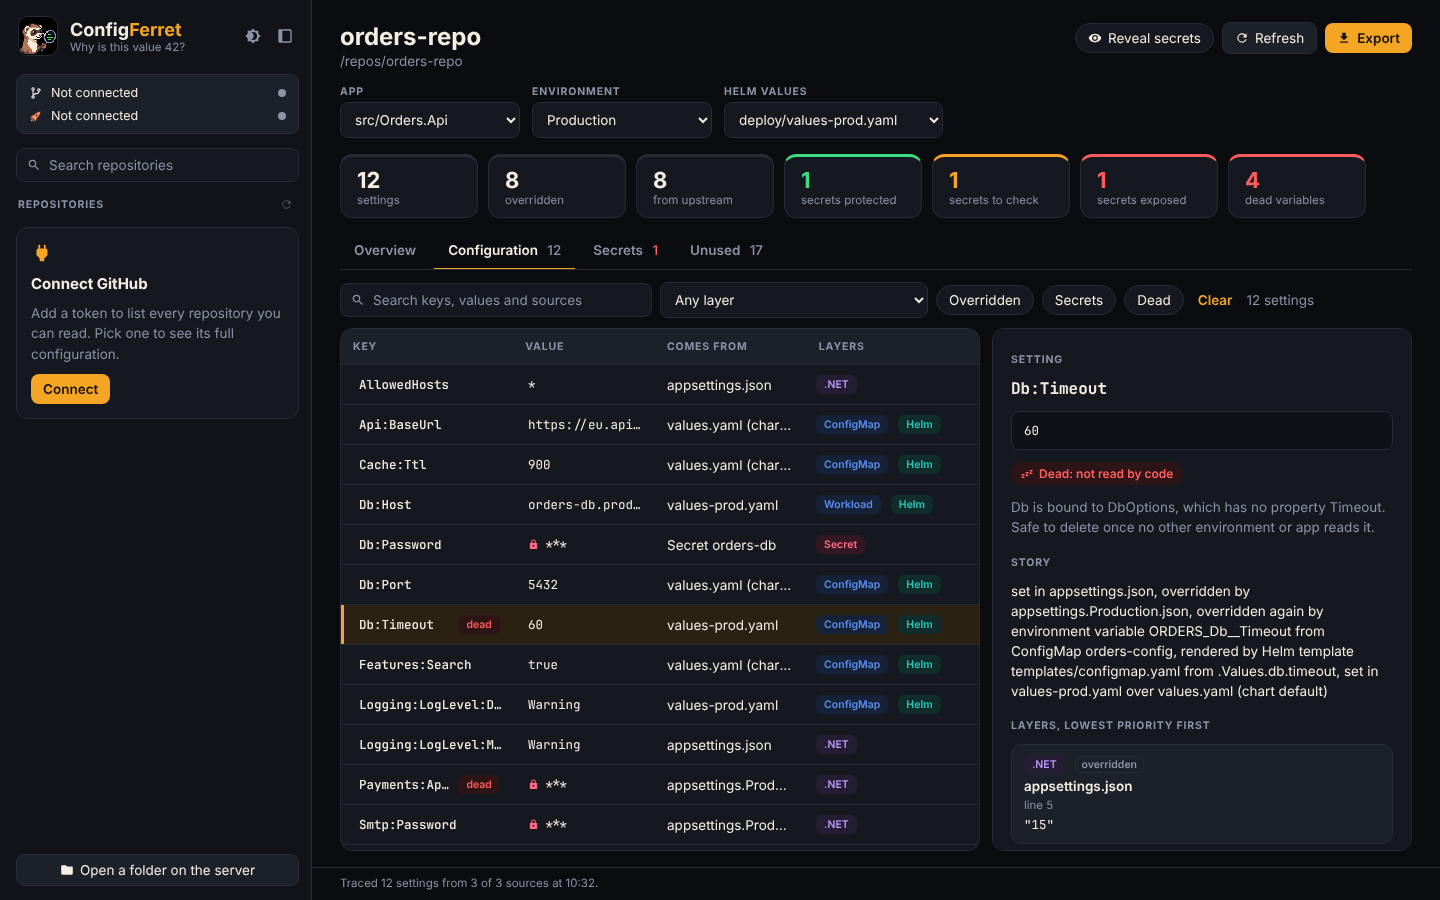
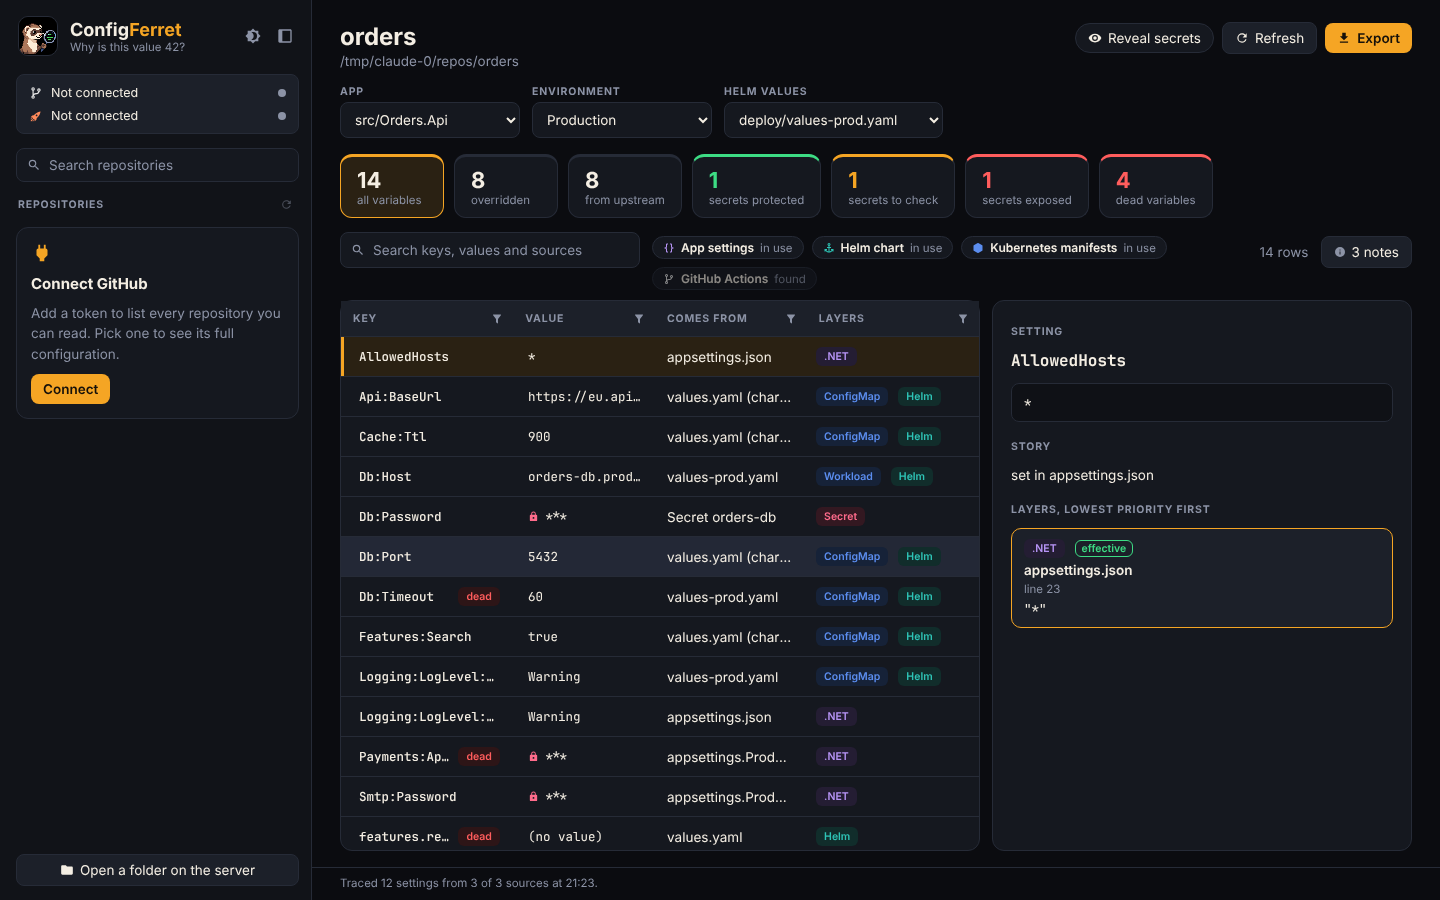
Show everything on one page with filters in the web app
The web app follows the desktop app: the tabs are gone, the stat tiles
filter the one table, each column header has a sort, search and
tick-list filter, and GitHub, Octopus and Helm rows sit in the table.

Claude-Session: https://claude.ai/code/session_013ADYoCp3cBN2uPLo4pv2va

diff --git a/src/ConfigFerret.Web/wwwroot/app.css b/src/ConfigFerret.Web/wwwroot/app.css
@@ -171,48 +171,57 @@ input::placeholder { color: var(--muted); }
 .tile.good { border-top-color: var(--good); } .tile.good .number { color: var(--good); }
 .tile.check { border-top-color: var(--accent); } .tile.check .number { color: var(--accent); }
 .tile.bad { border-top-color: var(--bad); } .tile.bad .number { color: var(--bad); }
-.tabs { display: flex; gap: 4px; border-bottom: 1px solid var(--border); overflow-x: auto; }
-.tab { padding: 10px 14px; border-bottom: 2px solid transparent; margin-bottom: -1px; font-weight: 600; color: var(--muted); white-space: nowrap; }
-.tab:hover { color: var(--text); }
-.tab.selected { color: var(--text); border-bottom-color: var(--accent); }
-.tab .count { margin-left: 6px; font-weight: 500; }
-.tab-body { flex: 1; min-height: 0; display: flex; flex-direction: column; padding-bottom: 16px; }
+button.tile { text-align: left; cursor: pointer; }
+button.tile:hover { background: var(--hover); }
+button.tile.selected { background: var(--accent-soft); border-color: var(--accent); border-top-color: var(--accent); }
+.toolbar { display: flex; flex-wrap: wrap; gap: 8px 12px; align-items: flex-start; margin-bottom: 10px; }
+.toolbar .search.wide { width: 300px; max-width: 100%; height: 36px; box-sizing: border-box; }
+.sources { flex: 1; min-width: 0; display: flex; flex-wrap: wrap; gap: 8px; padding-top: 4px; }
+.source { display: inline-flex; align-items: center; gap: 6px; border: 1px solid var(--border); border-radius: 999px; padding: 3px 10px; background: var(--surface); font-size: 12px; }
+.source.unused { opacity: .55; }
+.kind-dotnet { color: var(--k-dotnet); } .kind-k8s { color: var(--k-k8s); } .kind-helm { color: var(--k-helm); } .kind-kustomize { color: var(--k-kustomize); }
+.toolbar-end { display: flex; align-items: center; gap: 12px; padding-top: 4px; }
+.notes-popover { width: 520px; max-width: 80vw; max-height: 420px; overflow-y: auto; padding: 12px; }
 .pad-top { padding-top: 12px; }
 .scroll { overflow-y: auto; flex: 1; min-height: 0; display: flex; flex-direction: column; gap: 10px; }
 .column { flex: 1; min-height: 0; display: flex; flex-direction: column; gap: 10px; }
 
-.cards { display: flex; flex-wrap: wrap; gap: 12px; }
-.discovery { width: 300px; max-width: 100%; display: flex; gap: 12px; box-sizing: border-box; }
-.discovery-text { flex: 1; min-width: 0; display: flex; flex-direction: column; gap: 3px; }
-.discovery-title { display: flex; justify-content: space-between; gap: 8px; }
-.notes { margin-top: 8px; }
 .problems { list-style: none; margin: 0; padding: 0; display: flex; flex-direction: column; gap: 8px; }
 .problem { display: flex; gap: 10px; align-items: flex-start; user-select: text; line-height: 1.45; }
 .problem .icon { margin-top: 2px; }
 
-.legend { display: flex; flex-wrap: wrap; gap: 16px; color: var(--muted); }
-.legend > span { display: inline-flex; align-items: center; gap: 6px; }
-.legend .dot { width: 10px; height: 10px; }
-.list-card { flex: 1; min-height: 0; overflow-y: auto; padding: 6px; }
+.filters { display: flex; flex-wrap: wrap; gap: 8px; align-items: center; margin-bottom: 10px; }
 .rows { list-style: none; margin: 0; padding: 0; }
 .rows > li + li { border-top: 1px solid var(--border); }
-.secret-row { display: grid; grid-template-columns: 4px 112px minmax(0, 1fr) auto; gap: 12px; align-items: center; padding: 10px 8px 10px 0; }
-.stripe { align-self: stretch; border-radius: 2px; background: var(--border); }
-.stripe.good { background: var(--good); } .stripe.check { background: var(--accent); } .stripe.bad { background: var(--bad); }
-.secret-row .rating { width: 100%; box-sizing: border-box; }
-.row-text { display: flex; flex-direction: column; gap: 3px; min-width: 0; overflow-wrap: anywhere; }
-.unused-row { display: grid; grid-template-columns: 96px 120px minmax(0, 1fr) auto; gap: 8px; align-items: center; padding: 10px 8px; }
-.filters { display: flex; flex-wrap: wrap; gap: 8px; align-items: center; margin-bottom: 10px; }
 .empty { display: flex; flex-direction: column; align-items: center; justify-content: center; gap: 8px; height: 100%; min-height: 120px; text-align: center; }
 
 /* ---- Configuration ---- */
-.config { flex: 1; min-height: 0; display: flex; flex-direction: column; }
+.config { flex: 1; min-height: 0; display: flex; flex-direction: column; padding-bottom: 16px; }
 .config-split { flex: 1; min-height: 0; display: grid; grid-template-columns: minmax(0, 1fr) 420px; gap: 12px; }
-.grid-card { padding: 0; display: flex; flex-direction: column; min-height: 0; overflow: hidden; }
+.grid-card { padding: 0; display: flex; flex-direction: column; min-height: 0; overflow: visible; }
+.grid-body { border-radius: 0 0 12px 12px; }
 .grid-row { display: grid; grid-template-columns: 1.7fr 1.4fr 1.5fr 1.7fr; align-items: center; height: 40px; width: 100%; text-align: left; box-sizing: border-box; border-bottom: 1px solid var(--border); }
 .grid-head { height: 36px; background: var(--raised); flex: none; }
-.grid-sort { text-align: left; padding: 0 12px; height: 100%; color: var(--muted); font-size: 10.5px; font-weight: 700; letter-spacing: .08em; }
-.grid-sort:hover { color: var(--text); }
+.grid-head { overflow: visible; position: relative; z-index: 3; }
+.grid-header { position: relative; display: flex; align-items: center; gap: 6px; padding: 0 6px 0 12px; height: 100%; color: var(--muted); font-size: 10.5px; font-weight: 700; letter-spacing: .08em; }
+.grid-header > span:first-child { flex: 1; }
+.header-filter { padding: 4px; border-radius: 6px; color: var(--muted); display: inline-flex; }
+.header-filter:hover { background: var(--hover); color: var(--text); }
+.header-filter.active { color: var(--accent); }
+.popover-scrim { position: fixed; inset: 0; z-index: 6; }
+.popover { position: absolute; top: calc(100% + 4px); left: 0; z-index: 7; background: var(--raised); border: 1px solid var(--border); border-radius: 10px; padding: 8px; box-shadow: 0 12px 30px rgba(0,0,0,.35); letter-spacing: normal; font-size: 13px; font-weight: 400; color: var(--text); }
+.column-filter { width: 280px; display: flex; flex-direction: column; gap: 6px; }
+.column-filter hr { border: 0; border-top: 1px solid var(--border); margin: 2px 0; width: 100%; }
+.menu-row { display: flex; align-items: center; gap: 8px; width: 100%; text-align: left; padding: 6px 8px; border-radius: 6px; }
+.menu-row:hover { background: var(--hover); }
+.menu-row.checked { color: var(--accent); }
+.choice-head { display: flex; align-items: center; gap: 4px; }
+.choice-head > :first-child { flex: 1; }
+.choice-list { max-height: 260px; overflow-y: auto; background: var(--code); border: 1px solid var(--border); border-radius: 8px; padding: 4px; }
+.choice-row { display: grid; grid-template-columns: auto minmax(0, 1fr) auto; gap: 8px; align-items: center; padding: 4px 6px; border-radius: 6px; cursor: pointer; }
+.choice-row:hover { background: var(--hover); }
+.choice-row input { accent-color: var(--accent); margin: 0; }
+.flags { display: inline-flex; gap: 4px; flex: none; }
 .grid-body { flex: 1; overflow-y: auto; min-height: 0; }
 .grid-body .grid-row:hover { background: var(--hover); }
 .grid-body .grid-row.selected { background: var(--accent-soft); box-shadow: inset 3px 0 0 var(--accent); }
@@ -270,10 +279,6 @@ input::placeholder { color: var(--muted); }
   .welcome { padding: 24px 16px; }
   .grid-row { grid-template-columns: 1.4fr 1fr; }
   .grid-row > :nth-child(3), .grid-row > :nth-child(4) { display: none; }
-  .secret-row { grid-template-columns: 4px minmax(0, 1fr) auto; }
-  .secret-row .rating { display: none; }
-  .unused-row { grid-template-columns: minmax(0, 1fr) auto; }
-  .unused-row > :nth-child(1), .unused-row > :nth-child(2) { display: none; }
   .subject-head { flex-wrap: wrap; }
-  .tab-body { min-height: 420px; }
+  .config { min-height: 420px; }
 }

diff --git a/src/ConfigFerret.Web/Components/Pages/Home.razor.cs b/src/ConfigFerret.Web/Components/Pages/Home.razor.cs
@@ -19,6 +19,19 @@ public sealed partial class Home
     private DotNetObjectReference<Home>? _self;
     private IJSObjectReference? _shortcuts;
     private bool _exportOpen;
+    private bool _notesOpen;
+
+    private static readonly Tile[] Tiles =
+    [
+        new(TileFilter.All, "all variables", null, "Show every row: settings, plus GitHub and Octopus variables and Helm values no setting picks up", vm => vm.RowCount),
+        new(TileFilter.Overridden, "overridden", null, "Keys set by more than one layer", vm => vm.OverriddenCount),
+        new(TileFilter.Upstream, "from upstream", null, "Values that come from further upstream than the app, such as Helm, Kustomize, GitHub or Octopus", vm => vm.UpstreamCount),
+        new(TileFilter.Protected, "secrets protected", "good", "Secrets kept in a secret store", vm => vm.ProtectedCount),
+        new(TileFilter.Check, "secrets to check", "check", "Secrets that may or may not be safe: check them", vm => vm.CheckCount),
+        new(TileFilter.Exposed, "secrets exposed", "bad", "Secrets in plain configuration", vm => vm.ExposedCount),
+        new(TileFilter.Dead, "dead variables", "bad", "Settings no code reads, Helm values no template reads, and GitHub or Octopus variables nothing uses", vm => vm.DeadCount),
+        new(TileFilter.Workflow, "used by workflows", null, "GitHub variables and secrets a workflow uses directly, while no app setting does", vm => vm.WorkflowOnlyCount, vm => vm.HasWorkflowOnly),
+    ];
 
     /// <summary>This tab's view model.</summary>
     [Inject]
@@ -44,8 +57,12 @@ public sealed partial class Home
         _collections.AddRange(
         [
             Vm.Repositories, Vm.Discoveries, Vm.Apps, Vm.Environments, Vm.ValuesFiles, Vm.GitHubEnvironments, Vm.OctopusProjects,
-            Vm.OctopusEnvironments, Vm.Rows, Vm.SecretRows, Vm.Unused, Vm.Problems,
+            Vm.OctopusEnvironments, Vm.Rows, Vm.SecretRows, Vm.Problems, .. Vm.ColumnFilters.Select(c => c.Choices),
         ]);
+        foreach (var filter in Vm.ColumnFilters)
+        {
+            filter.PropertyChanged += OnViewModelChanged;
+        }
         foreach (var collection in _collections)
         {
             collection.CollectionChanged += OnCollectionChanged;
@@ -93,6 +110,7 @@ public sealed partial class Home
         }
 
         _exportOpen = false;
+        _notesOpen = false;
         StateHasChanged();
     }
 
@@ -126,8 +144,6 @@ public sealed partial class Home
         }
     }
 
-    private string? Selected(int tab) => Vm.SelectedTab == tab ? "selected" : null;
-
     private static string N(int value) => value.ToString("N0", CultureInfo.CurrentCulture);
 
     private void OnViewModelChanged(object? sender, PropertyChangedEventArgs e) => Refresh();
@@ -143,6 +159,11 @@ public sealed partial class Home
     public async ValueTask DisposeAsync()
     {
         Vm.PropertyChanged -= OnViewModelChanged;
+        foreach (var filter in Vm.ColumnFilters)
+        {
+            filter.PropertyChanged -= OnViewModelChanged;
+        }
+
         Dialogs.Changed -= OnDialogsChanged;
         foreach (var collection in _collections)
         {
@@ -164,4 +185,11 @@ public sealed partial class Home
 
         _self?.Dispose();
     }
+}
+
+/// <summary>A stat tile and the filter it sets.</summary>
+internal sealed record Tile(TileFilter Filter, string Label, string? Css, string Tip, Func<MainWindowViewModel, int> Count, Func<MainWindowViewModel, bool>? Shown = null)
+{
+    /// <summary>True when the tile is shown.</summary>
+    public bool Visible(MainWindowViewModel vm) => Shown?.Invoke(vm) ?? true;
 }

diff --git a/src/ConfigFerret.Web/README.md b/src/ConfigFerret.Web/README.md
@@ -1,10 +1,13 @@
 # ConfigFerret Web
 
 The [desktop app](../ConfigFerret.Desktop/README.md) as a website that runs in a Docker container. It has the same
-screens: the repositories your GitHub token can read, and for the one you pick, the merged configuration with the
-history of every value, dead variables, values that never win, and the secrets audit.
+screen: the repositories your GitHub token can read, and for the one you pick, one table with every setting and the
+history of its value, GitHub and Octopus variables no setting picks up, dead variables and the secrets audit. The stat
+tiles filter the table, and each column header has a sort, search and tick-list filter.
 
 ![The merged configuration of a repository in the web app](../../docs/web/configuration.png)
+
+![A column filter in the web app: sort, search and a tick list](../../docs/web/column-filter.png)
 
 ## Run
 
